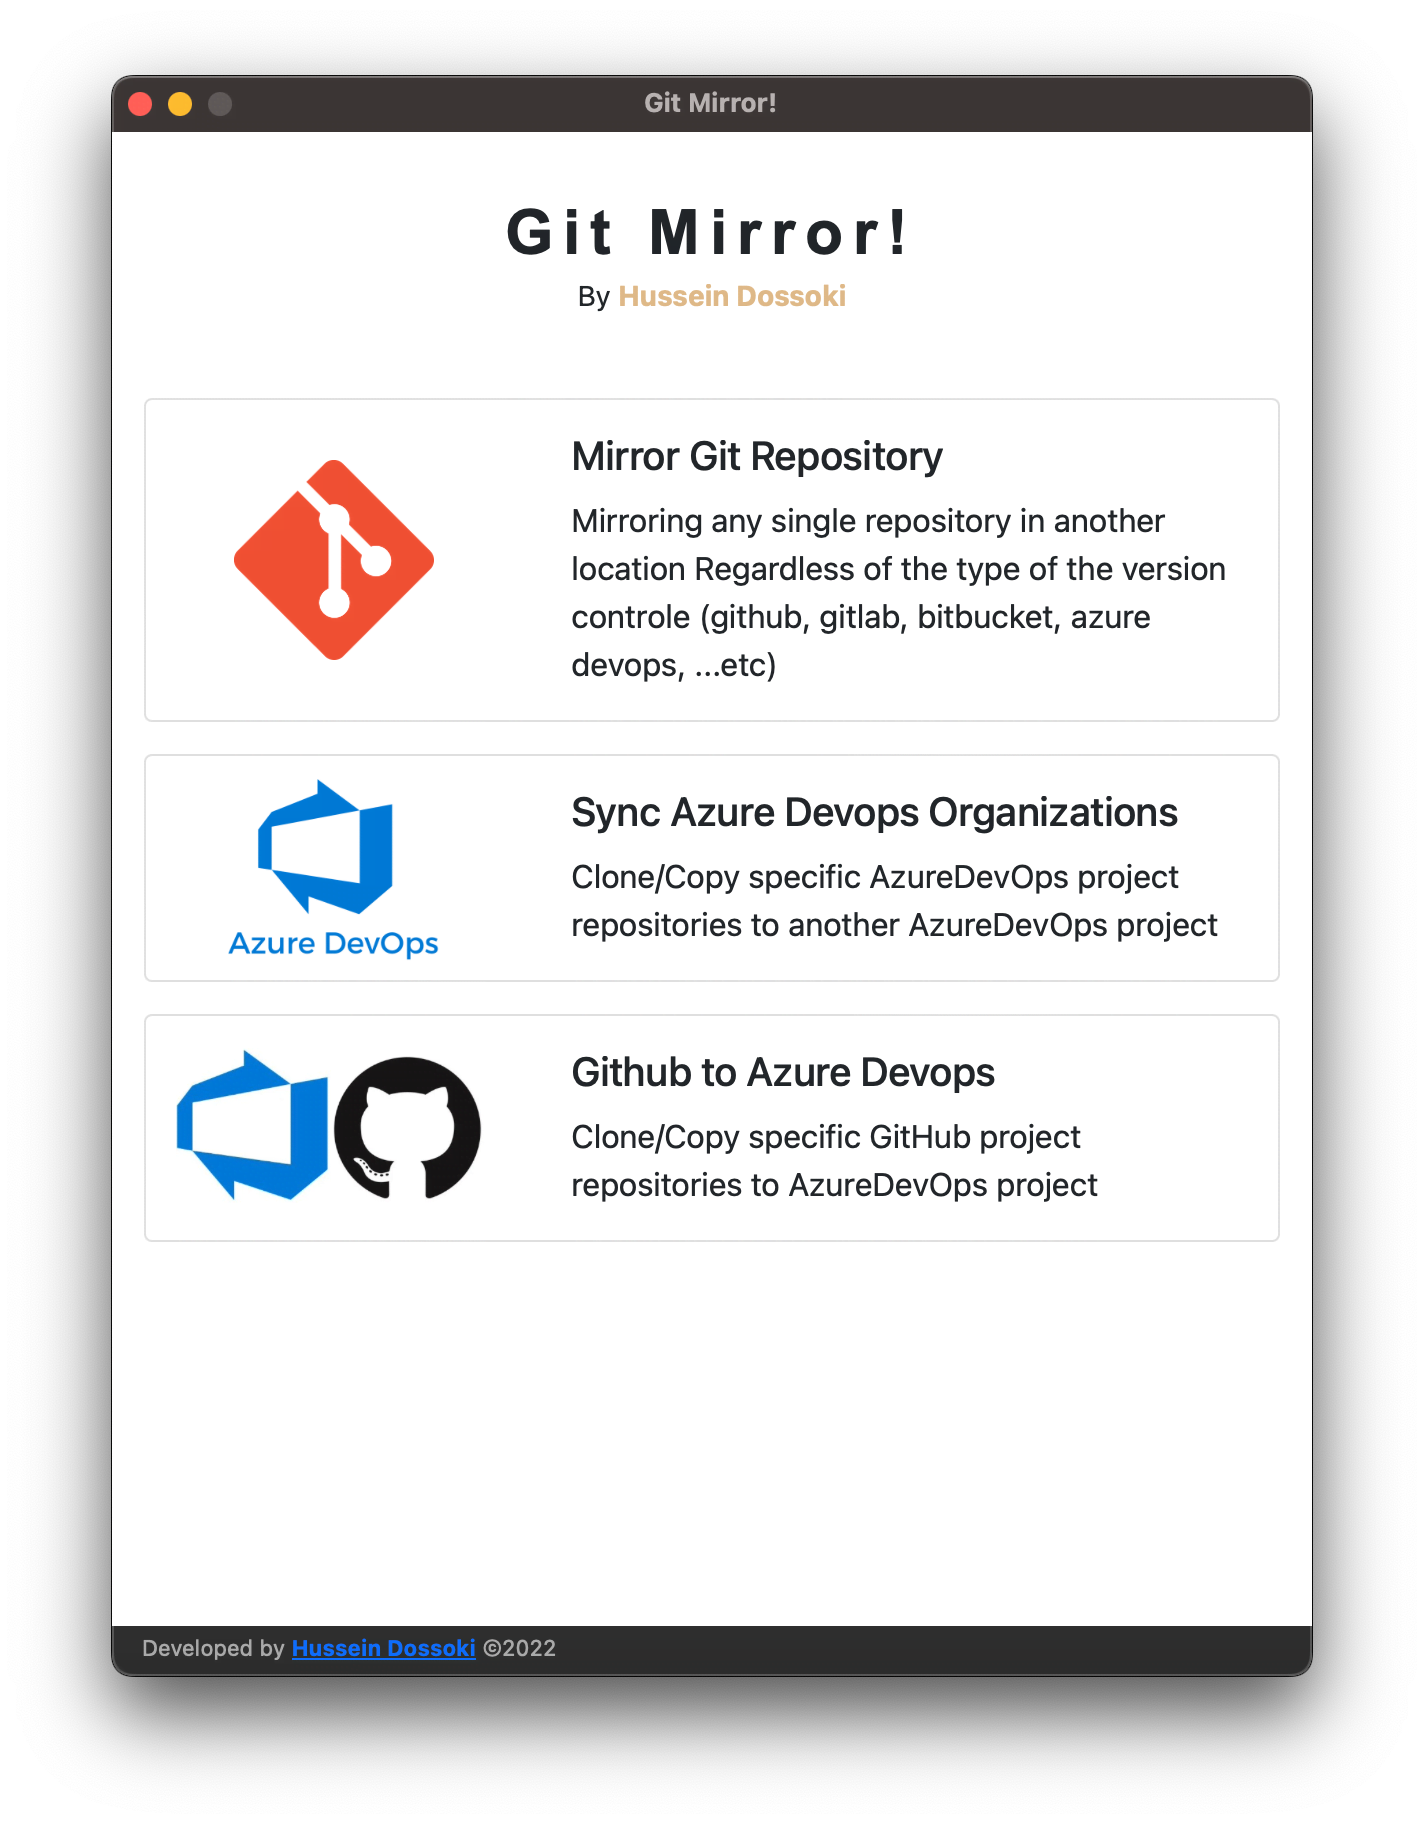
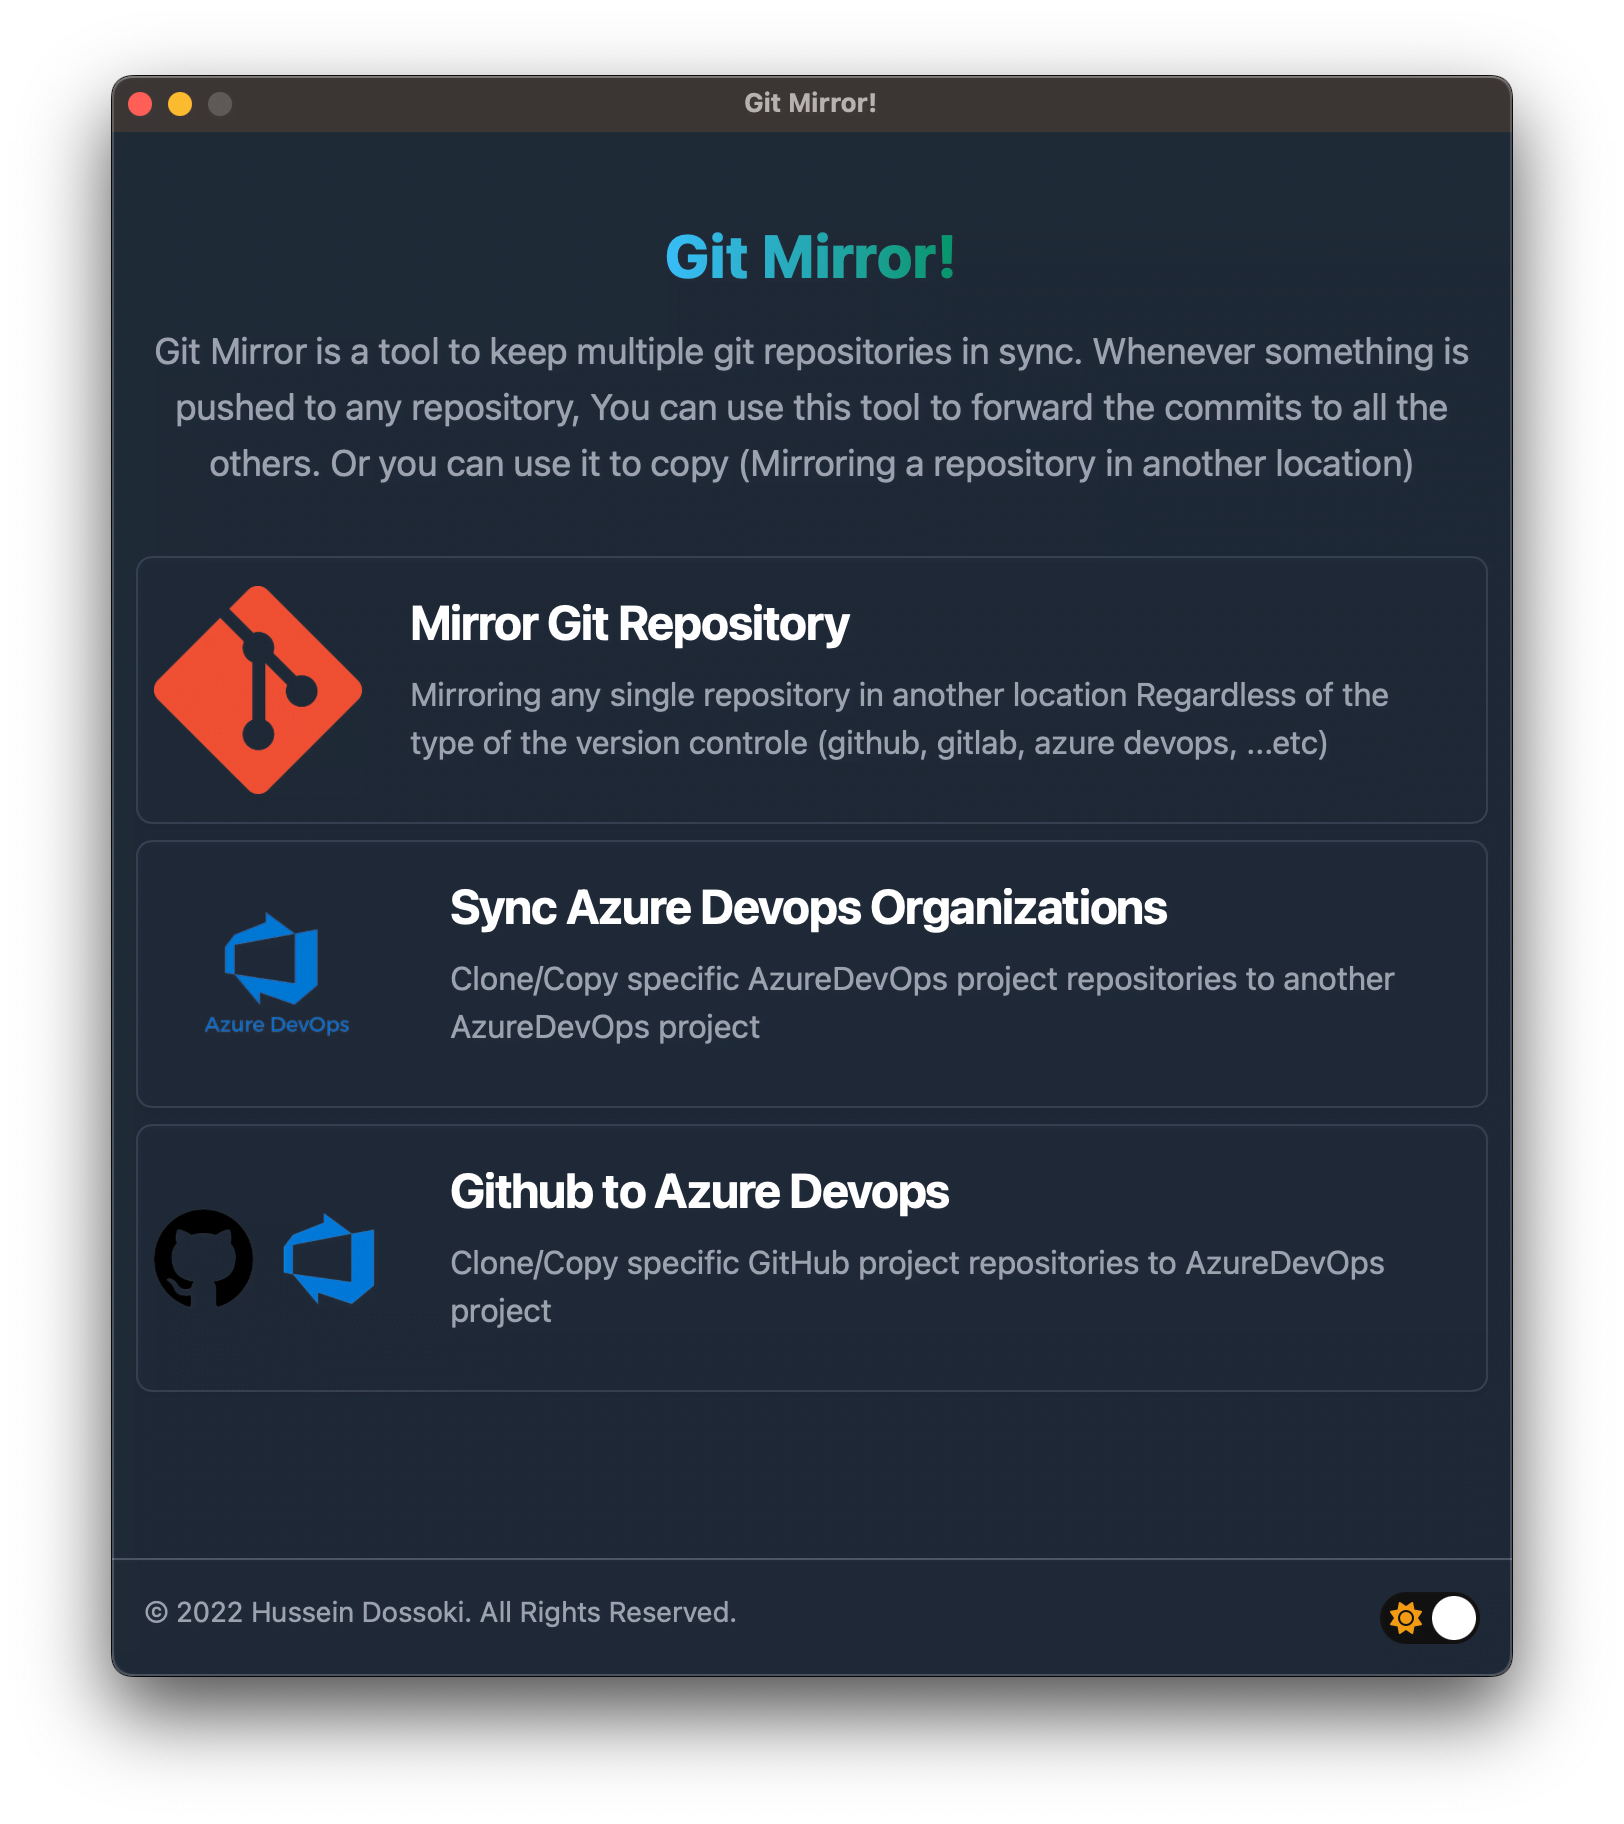
Update readme

diff --git a/README.md b/README.md
@@ -7,6 +7,13 @@
 
 *Git Mirror* is a tool to keep multiple git repositories in sync. Whenever something is pushed to any repository, You can use this tool to forward the commits to all the others. Or you can use it to copy (Mirroring a repository in another location)
 
+<div align="center">
+
+![App Demo](./docs/demo.gif)
+<br/>*App Demo*
+
+</div>
+
 ## Screenshots
 <img src="./docs/main_page.png" width="300"><img src="./docs/azure_to_azure.png" width="300"><img src="./docs/clone_repo.png" width="300">
 
@@ -23,7 +30,7 @@ Clone/Copy specific GitHub project repositories to AzureDevOps project
 #### Frontend
 
 * [Vue3](https://vuejs.org/) - See [`source code`](./src)
-* [bootstrap](https://getbootstrap.com/) - frontend toolkit
+* [Tailwind CSS](https://flowbite.com/docs/getting-started/introduction/) - frontend toolkit
 
 #### Backend
 
